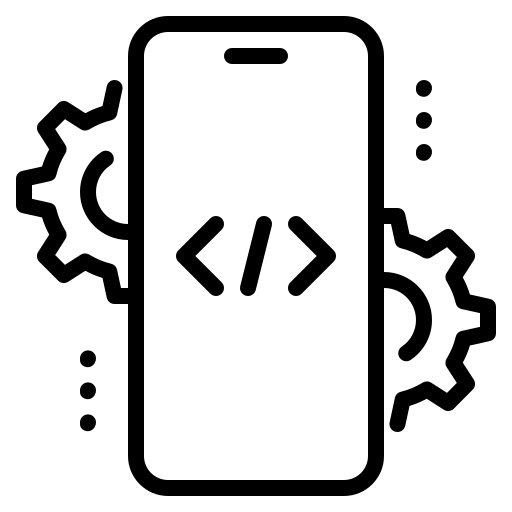
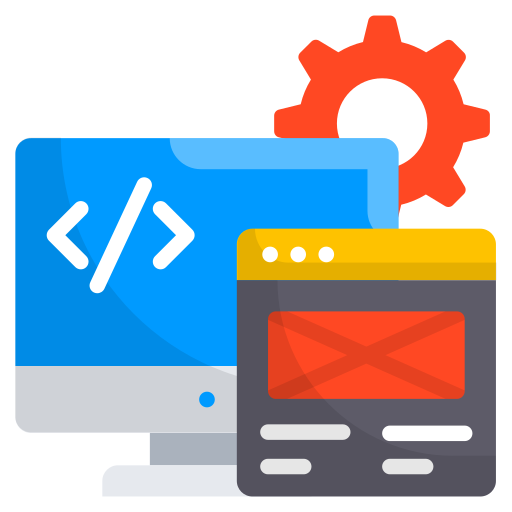
content change

diff --git a/src/constants/index.js b/src/constants/index.js
@@ -18,6 +18,9 @@ import {
   Anydiscount,
   PortFolio,
   mobileApp,
+  Server,
+  Automation,
+  Premad,
 } from "../assets";
 
 export const navLinks = [
@@ -37,13 +40,21 @@ export const navLinks = [
 
 const services = [
   {
-    title: "Web Developer",
-    icon: web,
+    title: "Mobile App Development ",
+    icon: mobileApp,
+  },
+  {
+    title: "Backend Development",
+    icon: Server,
+  },
+  {
+    title: "Automation Swervices using n8n",
+    icon: Automation,
   },
 
   {
-    title: "Mobile App Developer ",
-    icon: mobileApp,
+    title: "Web Development",
+    icon: web,
   },
 ];
 
@@ -78,10 +89,10 @@ const technologies = [
     name: "MongoDB",
     icon: mongodb,
   },
-  {
-    name: "Three JS",
-    icon: threejs,
-  },
+  // {
+  //   name: "Three JS",
+  //   icon: threejs,
+  // },
   {
     name: "git",
     icon: git,
@@ -90,30 +101,17 @@ const technologies = [
 
 const experiences = [
   {
-    title: "React.js Developer",
-    company_name: "Self",
-    icon: starbucks,
-    iconBg: "#383E56",
-    date: "March 2020 - April 2021",
+    title: "React Native Developer",
+    company_name: "Premad Software Solutions",
+    icon: Premad,
+    iconBg: "#FFFFFF",
+    date: "January 2025 - Present",
     points: [
-      "Developing and maintaining web applications using React.js and other related technologies.",
-      "Collaborating with cross-functional teams including designers, product managers, and other developers to create high-quality products.",
-      "Implementing responsive design and ensuring cross-browser compatibility.",
-      "Participating in code reviews and providing constructive feedback to other developers.",
-    ],
-  },
-
-  {
-    title: "Web Developer",
-    company_name: "Self",
-    icon: shopify,
-    iconBg: "#383E56",
-    date: "Jan 2022 - Jan 2023",
-    points: [
-      "Developing and maintaining web applications using React.js and other related technologies.",
-      "Collaborating with cross-functional teams including designers, product managers, and other developers to create high-quality products.",
-      "Implementing responsive design and ensuring cross-browser compatibility.",
-      "Participating in code reviews and providing constructive feedback to other developers.",
+      "Developing and maintaining high-performance mobile applications using React Native and JavaScript (TypeScript).",
+      "Collaborating with UI/UX designers and backend teams to build smooth, scalable, and user-friendly experiences.",
+      "Implementing real-time features such as chat, notifications, and data synchronization using Firebase and WebSockets.",
+      "Debugging, optimizing performance, and improving app reliability across Android and iOS platforms.",
+      "Integrating REST APIs and third-party services like Razorpay, Google Fit, and Firebase for enhanced app functionality.",
     ],
   },
 ];
@@ -147,8 +145,8 @@ const testimonials = [
 
 const projects = [
   {
-    name: "Animated PortFolio ",
-    description: "Portfolio That  describe the deatils about myself ",
+    name: "Kiyyex ",
+    description: " Kiyyex – All-in-One Management App for PGs, Libraries & Gyms Kiyyex is a powerful, flexible management app designed for PG (Paying Guest) owners, Library managers, and Gym owners. Whether you run one location or multiple branches, Kiyyex helps you manage customers, staff, payments, and operations—all from your phone ",
     tags: [
       {
         name: "HTML",
@@ -165,11 +163,11 @@ const projects = [
     ],
     image: PortFolio,
     source_code_link:
-      "https://github.com/narendrayogi914/narendra_portfolio/tree/master",
+      "https://play.google.com/store/apps/details?id=com.kiyyex",
   },
   {
-    name: " Netflix Website Clone ",
-    description: "This is a  Poroject of cloning the Netflix Home Page UI",
+    name: " MError: Mental wellbeing ",
+    description: "Discover Yourself with MError – Self-Awareness & Growth Ever felt lost, overwhelmed, or unsure about your emotions and decisions? MError helps you explore your mind, understand your emotions, and improve self-awareness—all in a fun and interactive way! ✨: Swipe-Based Personality & Self-Discovery Tests – Engage with assessments designed to uncover insights about your emotions, decision-making, confidence, and more.",
     tags: [
       {
         name: "HTML",
@@ -185,7 +183,7 @@ const projects = [
       },
     ],
     image: Netflix,
-    source_code_link: "https://github.com/narendrayogi914/Netflix-clone",
+    source_code_link: "https://play.google.com/store/apps/details?id=com.merrorhealth",
   },
   {
     name: "AnyDiscount Website Clone ",

diff --git a/src/components/Works.jsx b/src/components/Works.jsx
@@ -70,13 +70,17 @@ const Works = () => {
 
       </motion.div>
       <div className="w-full flex">
-        <motion.p
-        variants={fadeIn("","",0.1, 1)}
-        className='mt-3 text-secondary text-[17px] max-w-3xl leading-[30px]'
-        >
-          Lorem ipsum dolor sit amet consectetur adipisicing elit. Recusandae totam quia, atque provident necessitatibus nostrum, animi a eveniet, sed ducimus voluptatem voluptates suscipit. Pariatur assumenda labore hic possimus! Molestias expedita tempore enim, sit laboriosam commodi!
-          
-        </motion.p>
+     <motion.p
+  variants={fadeIn("", "", 0.1, 1)}
+  className="mt-3 text-secondary text-[17px] max-w-3xl leading-[30px]"
+>
+  A modern mobile application built using React Native and Node.js,
+  focused on performance, scalability, and clean UI. I handled end-to-end
+  development, from integrating APIs and real-time chat to fixing bugs
+  and improving user experience. This project showcases my ability to
+  deliver complete, production-ready apps.
+</motion.p>
+
 
       </div>
       <div className="flex flex-wrap gap-7 mt-20">

diff --git a/src/assets/index.js b/src/assets/index.js
@@ -31,6 +31,9 @@ import tripguide from "./tripguide.png";
 import Netflix from "./netflix.png";
 import Anydiscount from "./anydiscount.png";
 import PortFolio from "./portfolio.png";
+import Server from './server.png'
+import Automation from './future-technology.png'
+import Premad from './premad.png'
 export {
   logo,
   backend,
@@ -63,4 +66,7 @@ export {
   tripguide,
   PortFolio,
   mobileApp,
+  Server, 
+  Automation, 
+  Premad
 };

diff --git a/src/components/Contact.jsx b/src/components/Contact.jsx
@@ -33,7 +33,7 @@ const Contact = () => {
     
     // Ensure these keys match your EmailJS template keys
     emailjs.send(
-      'service_39g46m4',    // Your EmailJS service ID
+      'service_8bhbh1j',    // Your EmailJS service ID
       'template_1iphxg5',   // Your EmailJS template ID
       {
         name: form.name,    // Should match the EmailJS template variable
